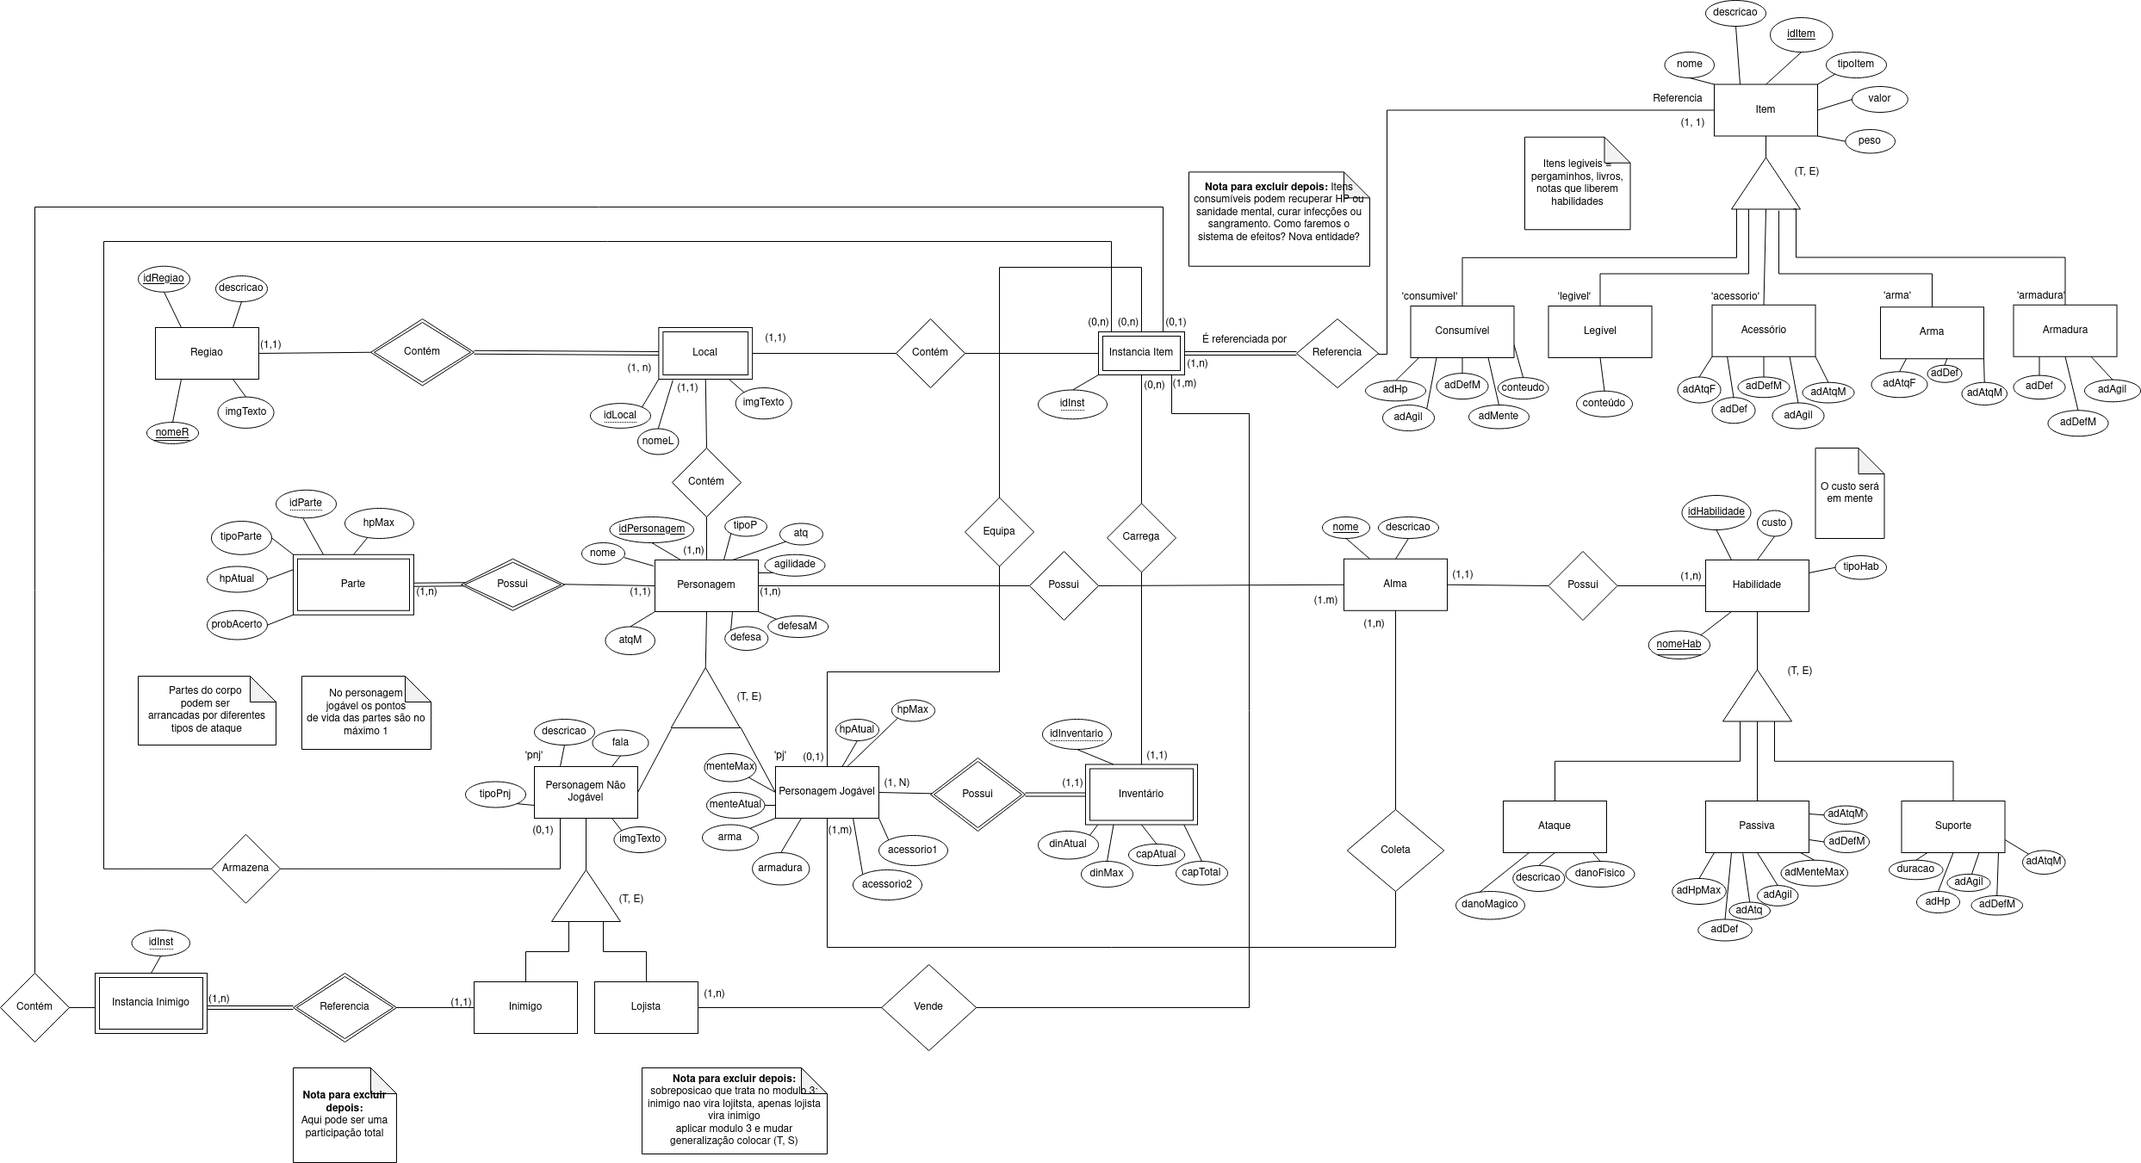
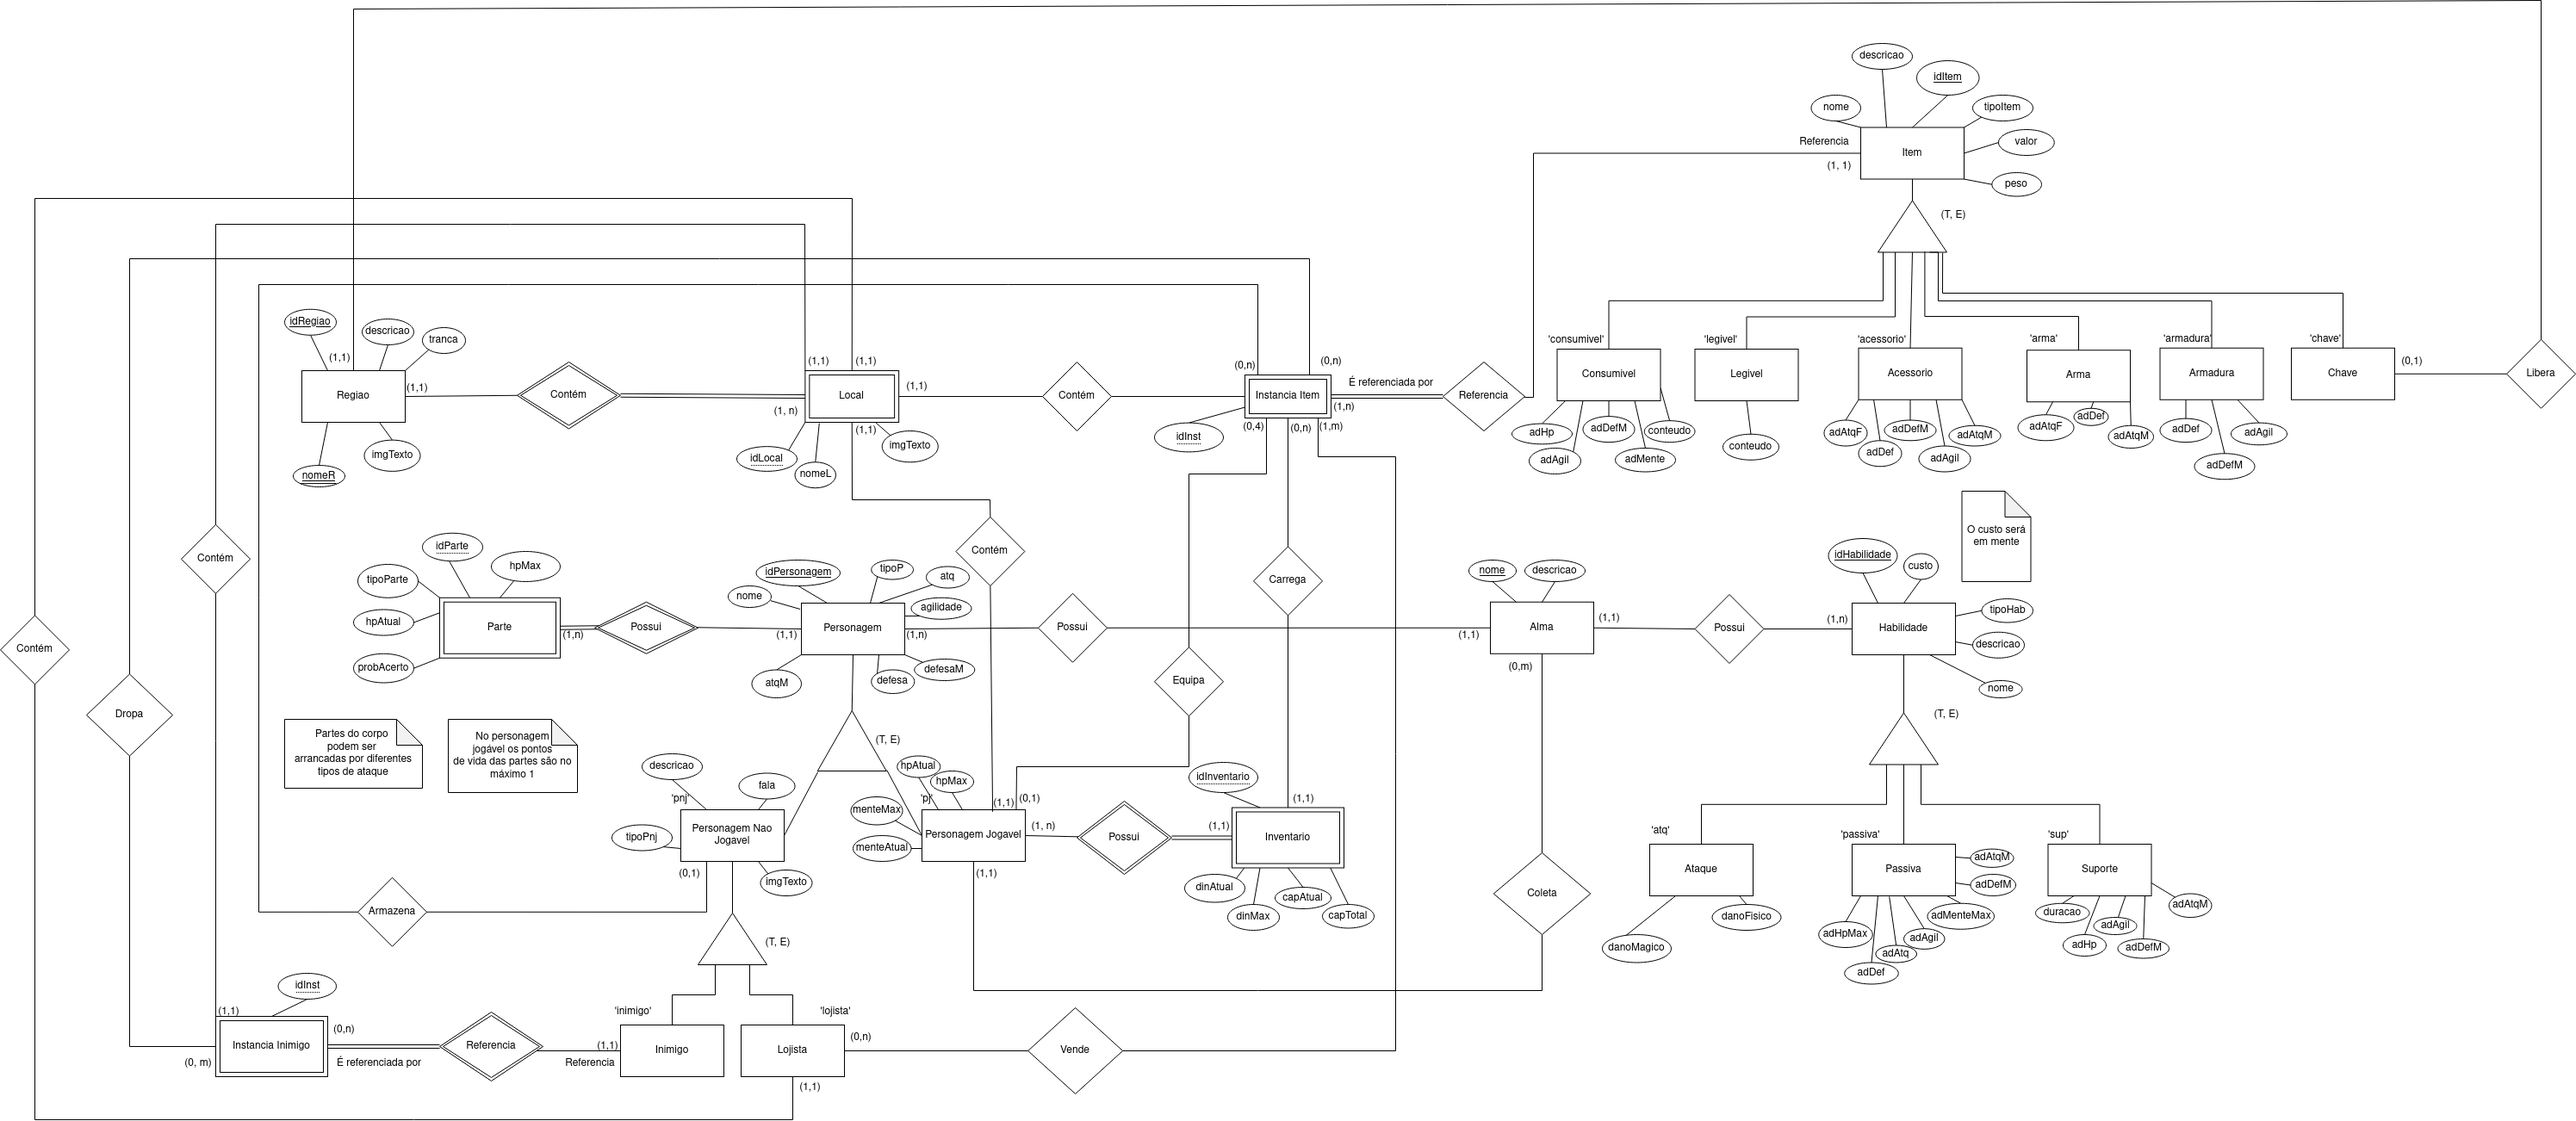
adicionando a v2.3 do DER

diff --git a/docs/modulo_01/DER.md b/docs/modulo_01/DER.md
@@ -12,6 +12,7 @@
 | 0.6    | 15/11/2023 | Adição da versão 2.0 do DER conforme feedback                                            | Matheus, Gabriela                   |
 | 0.7    | 15/11/2023 | Adição da versão 2.1 do DER                                                              | Matheus, Gabriela                   |
 | 0.8    | 28/11/2023 | Adição da versão 2.2 do DER, correções no versionamento e adições das versões anteriores | Gabriela                            |
+| 0.9    | 02/12/2023 | Adição da versão 2.3 do DER | Gabriela e Matheus|
 
 
 ## O que é?
@@ -20,7 +21,7 @@ Um DER, ou Diagrama de Entidade-Relacionamento, é uma ferramenta gráfica utili
 
 Em suma, um Diagrama de Entidade-Relacionamento é uma ferramenta essencial no processo de design e modelagem de banco de dados, contribuindo para a organização eficaz e a integridade dos dados em um sistema.
 
-![DER v2.2](./assets/DERv/DERv2.2.png)
+![DER v2.3](./assets/DERv/DERv2.3.png)
 
 ### Desenvolvimento do Diagrama Entidade-Relacionamento
 
